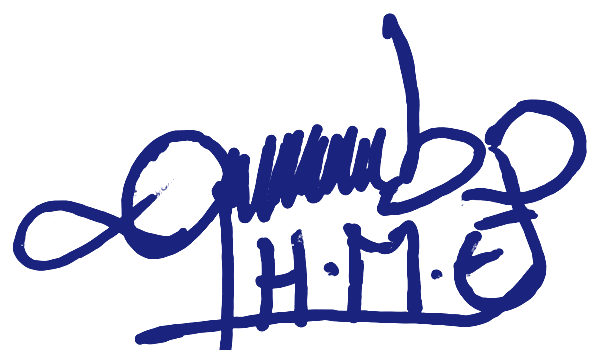
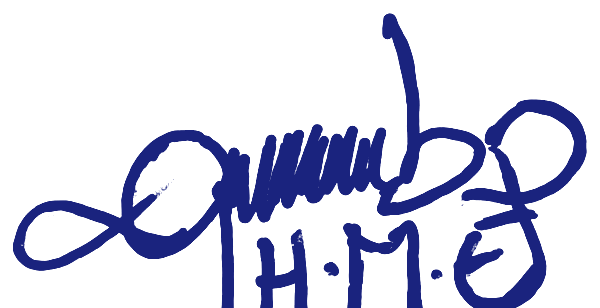
Signature centrée au-dessus du trait, sans toucher aucun trait
- l'ornement sous le cadre du verset est retiré des fonds pour lui laisser la place
- version de la signature sans son soulignement ni la queue du jambage
- nom et fonction du responsable remontés pour ne plus toucher l'ornement du bas

Claude-Session: https://claude.ai/code/session_01KABcpeGCK9ctoaKpNZYHX6

Changed region(s): [[0.0, 0.263, 0.99, 1.0], [0.63, 0.0584, 0.72, 0.2922], [0.63, 0.0292, 0.66, 0.0584]]

diff --git a/attestation.js b/attestation.js
@@ -130,16 +130,15 @@ async function dessiner(doc, d){
   // signature sur le trait, puis nom et fonction du responsable dessous
   const xs = mm((Z.signature[0]+Z.signature[2])/2), ys = mm(Z.signature[1]);
   if(d.signature){
-    // centrée sur le trait, entre l'ornement du cadre du verset (jusqu'à ~858 px) et le trait du modèle.
-    // Version sans la queue du jambage (marque/signature-houngbadji-courte.png, 600 × 350) pour ne pas barrer le nom.
-    // son trait de soulignement (à 91 % de la hauteur) vient se poser sur le trait du modèle
-    const top = mm(d.niveau === 1 ? 842 : 858) + 0.4, h = Math.min(11, (ys - top)/0.91), w = h*600/350;
+    // centrée au-dessus du trait, sans le toucher. L'ornement sous le cadre du verset a été retiré des fonds
+    // pour lui laisser la place. Version sans soulignement ni queue du jambage (signature-houngbadji-courte.png, 600 × 308).
+    const h = 11.5, w = h*600/308, top = ys - 1 - h;
     doc.addImage(d.signature, "PNG", xs - w/2, top, w, h);
   }
   doc.setTextColor(...ENCRE); doc.setFont("times","bold");
-  centre(doc, T(d.responsable || ""), xs, ys + 5.2, 11.5, 100, 8);
+  centre(doc, T(d.responsable || ""), xs, ys + 4.6, 11.5, 100, 8);
   doc.setFont("times","normal"); doc.setFontSize(9.5);
-  doc.text(T(d.fonction || "Le Responsable de la formation"), xs, ys + 8.6, {align:"center"});
+  doc.text(T(d.fonction || "Le Responsable de la formation"), xs, ys + 7.8, {align:"center"});
 
   // code QR de vérification, à droite de la signature
   if(d.lienQR) qr(doc, d.lienQR, mm(1052), mm(830), 21);
